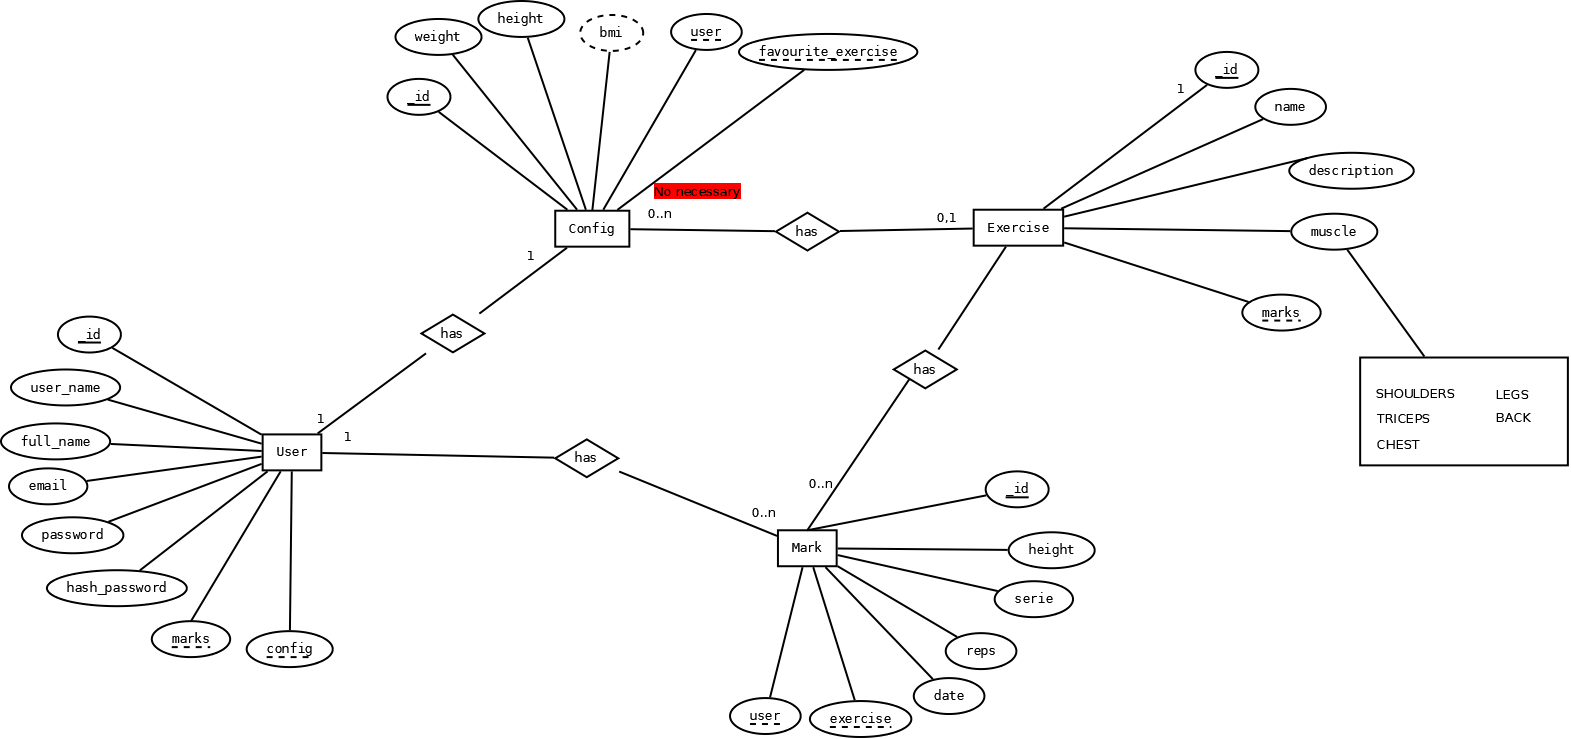
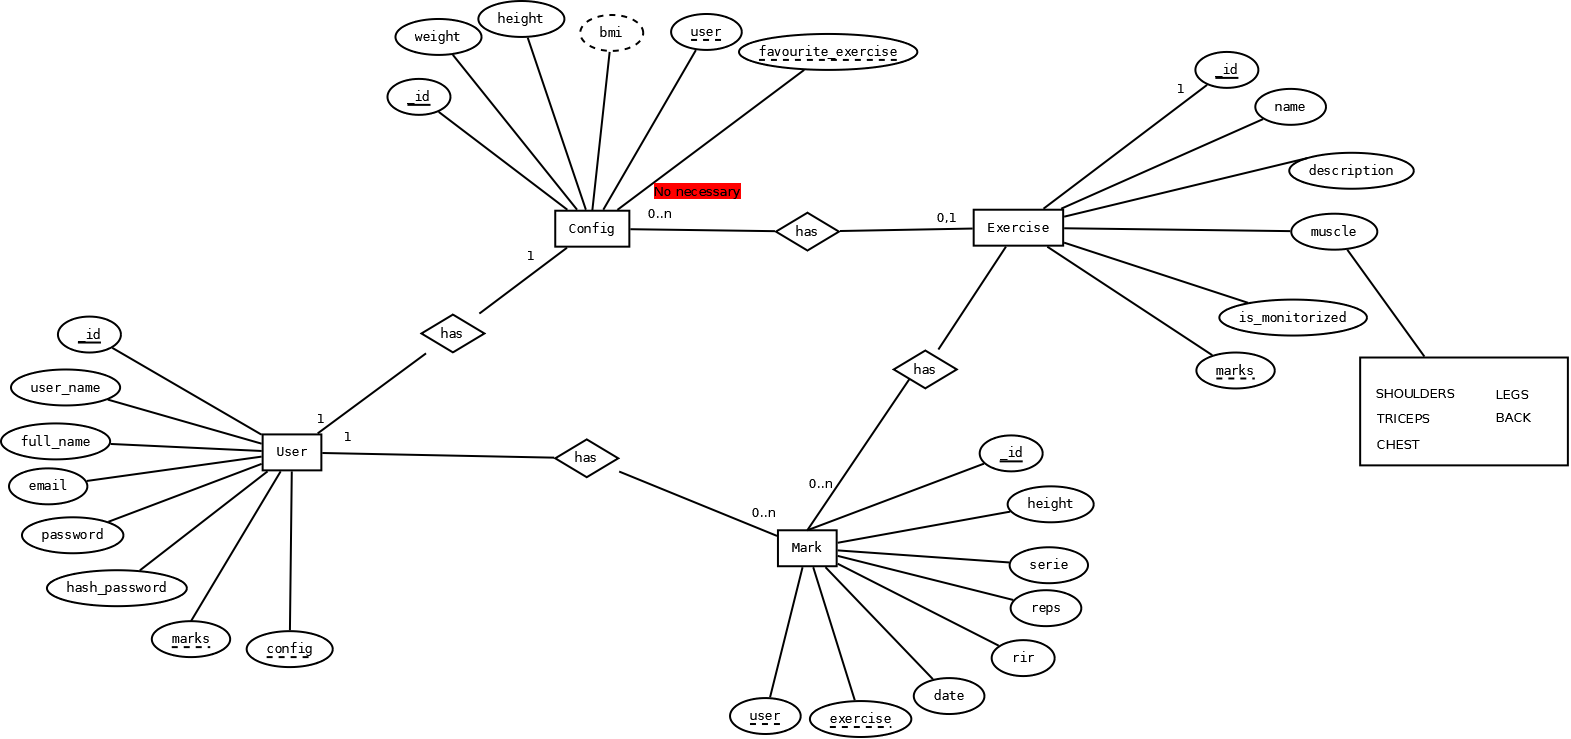
[FE, BE] feat: Add isMonitorized prop to exercise

diff --git a/code/gym-frontend/src/app/tab-exercises/tab-exercises.page.html b/code/gym-frontend/src/app/tab-exercises/tab-exercises.page.html
@@ -33,7 +33,15 @@
             <ion-item class="ion-no-padding" button>
               <div class="item-wrapper">
                 <div class="item-info">
-                  <ion-label text-wrap>{{exercise.name }}</ion-label>
+                  <ion-label text-wrap
+                    >{{exercise.name }}<span
+                      class="is-monitorized"
+                      *ngIf="exercise.isMonitorized"
+                      ><ion-icon
+                        class="is-monitorized-icon"
+                        name="eye"
+                      ></ion-icon></span
+                  ></ion-label>
                   <ion-badge color="primary"
                     >{{ exercise.muscle | titlecase }}</ion-badge
                   >

diff --git a/code/gym-frontend/src/app/tab-exercises/tab-exercises.page.scss b/code/gym-frontend/src/app/tab-exercises/tab-exercises.page.scss
@@ -1,3 +1,5 @@
+@import "../../theme/variables.scss";
+
 ion-button {
   width: fit-content;
   margin: 0 auto;
@@ -31,6 +33,7 @@ ion-button {
         align-items: center;
 
         ion-label {
+          display: flex;
           max-width: 60%;
           font-size: 1rem;
           font-weight: 900;
@@ -38,6 +41,15 @@ ion-button {
 
         ion-badge {
           height: fit-content;
+        }
+
+        .is-monitorized {
+          margin-left: 0.5rem;
+
+          &-icon {
+            color: var(--ion-color-tertiary);
+            zoom: 1.5;
+          }
         }
       }
 

diff --git a/code/gym-backend/src/dto/exercise.dto.ts b/code/gym-backend/src/dto/exercise.dto.ts
@@ -1,4 +1,4 @@
-import { IsEnum, IsNotEmpty, IsString } from 'class-validator';
+import { IsBoolean, IsEnum, IsNotEmpty, IsString } from 'class-validator';
 import { MuscleEnum } from 'src/enums/muscle.enum';
 
 export class CreateExerciseDTO {
@@ -12,6 +12,9 @@ export class CreateExerciseDTO {
   @IsEnum(MuscleEnum)
   @IsNotEmpty()
   muscle: MuscleEnum;
+
+  @IsBoolean()
+  isMonitorized: boolean;
 }
 
 export class UpdateExerciseDTO {
@@ -23,4 +26,7 @@ export class UpdateExerciseDTO {
 
   @IsEnum(MuscleEnum)
   muscle: MuscleEnum;
+
+  @IsBoolean()
+  isMonitorized: boolean;
 }

diff --git a/code/gym-frontend/src/app/tab-exercises/modals/create-exercise-modal/create-exercise-modal.component.html b/code/gym-frontend/src/app/tab-exercises/modals/create-exercise-modal/create-exercise-modal.component.html
@@ -31,6 +31,15 @@
         >
       </ion-select>
     </ion-item>
+    <ion-item>
+      <ion-label>Is monitorized?</ion-label>
+      <ion-toggle
+        slot="end"
+        [(ngModel)]="exercise.isMonitorized"
+        name="isMonitorized"
+        color="tertiary"
+      ></ion-toggle>
+    </ion-item>
   </div>
   <div class="buttons-container">
     <ion-button type="submit" expand="block" color="secondary">Save</ion-button>

diff --git a/code/gym-backend/src/schemas/exercise.schema.ts b/code/gym-backend/src/schemas/exercise.schema.ts
@@ -16,6 +16,9 @@ export class Exercise {
   @Prop({ type: String, required: true })
   muscle: MuscleEnum;
 
+  @Prop({ type: Boolean, default: false, name: 'is_monitorized' })
+  isMonitorized: boolean;
+
   @Prop({ type: [{ type: Types.ObjectId, ref: 'Mark' }] })
   marks: Mark[];
 }

diff --git a/code/gym-frontend/src/app/models/exercise.model.ts b/code/gym-frontend/src/app/models/exercise.model.ts
@@ -6,4 +6,5 @@ export interface Exercise {
   name?: string;
   description?: string;
   muscle?: string;
+  isMonitorized?: boolean;
 }
